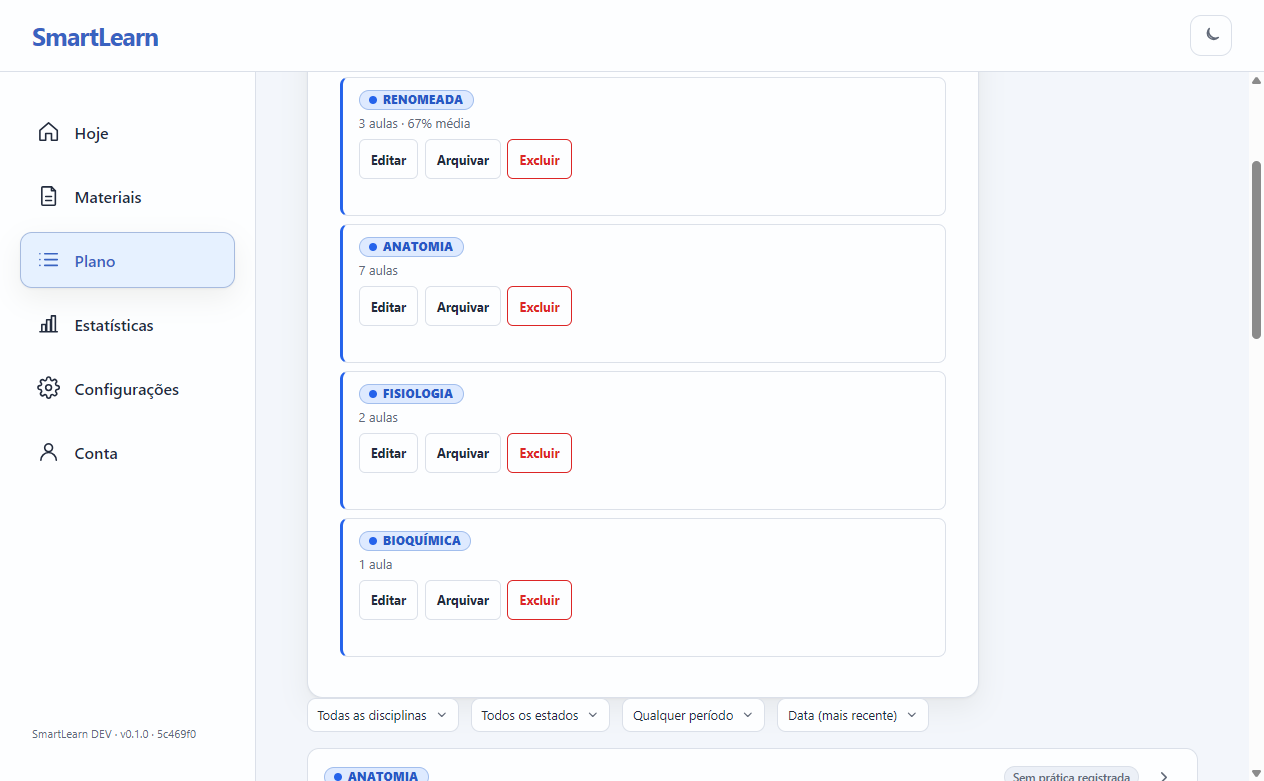
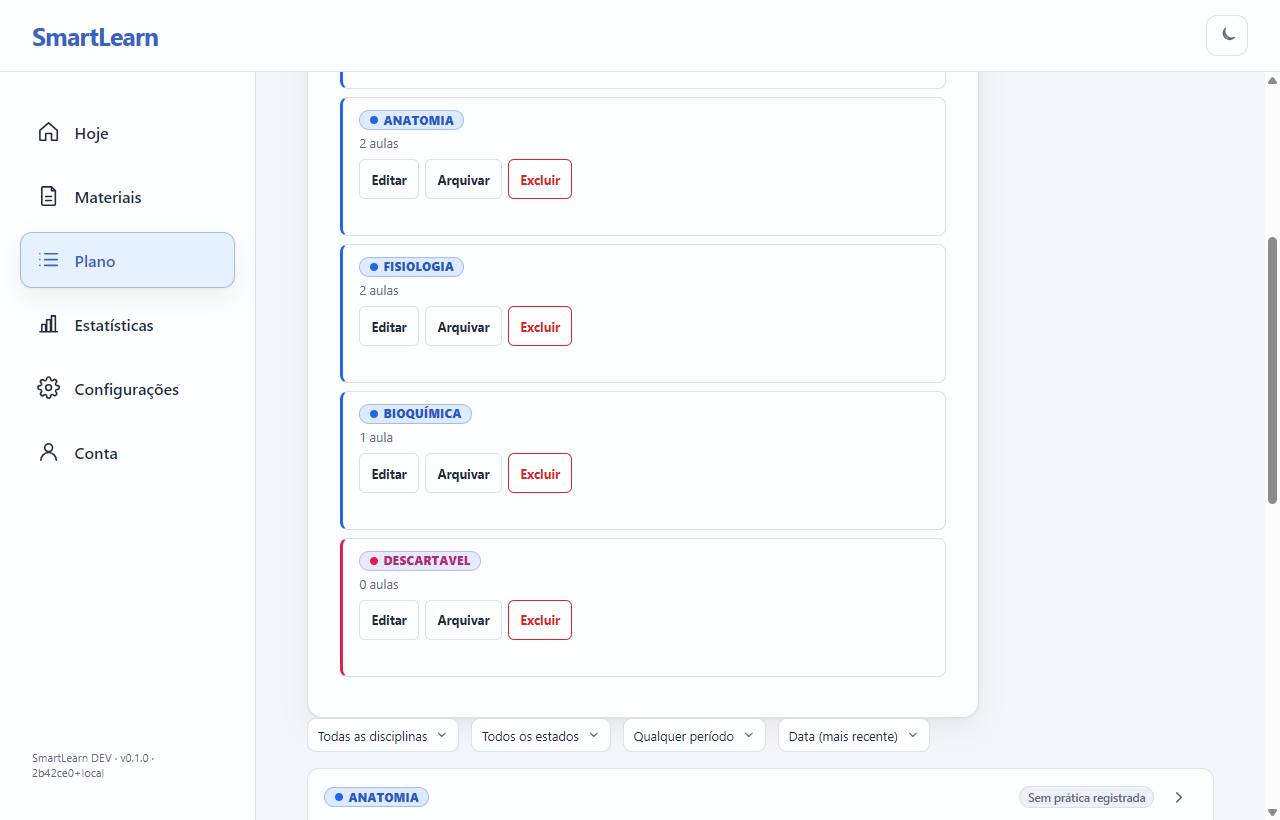
test(native): single-run lock, trap cleanup, instance sweep, password masking (T05)

diff --git a/.specs/campanha-funcional/PLANO-CAMPANHA.md b/.specs/campanha-funcional/PLANO-CAMPANHA.md
@@ -61,11 +61,11 @@ Regra de execução: **uma tarefa por vez; parar ao concluir; um commit local po
 - [x] 4.6 Validar antes/depois (chamadas, volume de saída, duração, evidências; tokens como estimativa se não houver contagem real); commit local. Parar.
 
 ### 05 — Isolamento dos dados
-- [ ] 5.1 Registrar o estado dos dados demonstrativos (contagens e identificadores).
-- [ ] 5.2 Auditar caminhos, bancos, portas, processos, inicialização e limpeza de `zz-ui-full.sh` e `zz-ui-bordas.sh`.
-- [ ] 5.3 Testar resistência a falha, interrupção e execução concorrente.
-- [ ] 5.4 Rodar teste normal + de borda e comparar o estado: nenhuma alteração indevida.
-- [ ] 5.5 Corrigir só falhas efetivamente encontradas; commit local. Parar.
+- [x] 5.1 Registrar o estado dos dados demonstrativos (contagens e identificadores).
+- [x] 5.2 Auditar caminhos, bancos, portas, processos, inicialização e limpeza de `zz-ui-full.sh` e `zz-ui-bordas.sh`.
+- [x] 5.3 Testar resistência a falha, interrupção e execução concorrente.
+- [x] 5.4 Rodar teste normal + de borda e comparar o estado: nenhuma alteração indevida.
+- [x] 5.5 Corrigir só falhas efetivamente encontradas; commit local. Parar.
 
 ### 06 — Inventário e matriz de cobertura
 - [ ] 6.1 Inventariar código, rotas, menus, componentes, estados e fluxos realmente implementados.
@@ -120,7 +120,7 @@ Regra de execução: **uma tarefa por vez; parar ao concluir; um commit local po
 - [ ] 12.6 Fechamento executivo curto; declarar conclusão total ou parcial. Parar.
 
 ## Próxima ação
-Tarefa 05, subtarefa 5.1.
+Tarefa 06, subtarefa 6.1.
 
 ## Resultados da Tarefa 01 (2026-11-01) — medido, sem rodar a suíte completa
 **Métricas de base**
@@ -195,3 +195,13 @@ Unidades medidas: subida do app 5,3 s; reinício deliberado 6,75 s (7,0 s no cic
 | Duração | 52-60 s | 52,6 s e 54,0 s (rodadas limpas); 59,8 s com a falha |
 
 **Prova real:** na 1ª rodada o SEED2c falhou (A-09, intermitente, 1 em 3) e a evidência automática bastou para ver que o botão existia 3 s depois; rodadas 2 e 3: 0 falhas. Causa de A-09 não provada. Limitação: o "antes" é o tamanho do log integral, não uma reexecução do fluxo antigo.
+
+## Resultados da Tarefa 05 (2026-11-01)
+**Lacunas achadas na auditoria (5.2) e correção mínima (5.5):**
+1. Os dois scripts compartilham 1 driver e 1 arquivo de estado: rodar os dois juntos (ou 2x) fazia um `quit` do app do outro, ou mandar lixo de borda para o conjunto realista. Novo `scripts/zz-ui-guard.sh` (lock atômico por `mkdir`, dono morto é substituído, `trap` encerra o app e solta o lock em saída/INT/TERM).
+2. 40 pastas `sl-ui-driver-*` (dados descartáveis das instâncias) acumuladas em `%TEMP%`. Agora `quit` apaga a pasta da própria instância (só prefixo `sl-ui-driver-` direto no temp) e o guarda varre as com mais de 1 dia.
+3. Snapshot imprimia o valor de campos de senha em `tela.txt`/logs; agora `***`.
+4. Retenção: `falhas/` (nome fixo por lote+linha, é sobrescrito) e `logs/` ficam fora do Git.
+
+**Provas:** (a) execução concorrente recusada, sem abrir janela: `full exit=3`, `bordas exit=3` com a mensagem do dono; (b) normal depois borda em sequência: ciclo 17 lotes 0 falhas (46,9 s); (c) impressão digital da pasta de dados humanos (`~/SmartLearn-DevData`, só nomes/tamanhos/datas, sem abrir arquivos) idêntica antes e depois: `72cd1829ec32`; (d) 0 pastas de instância sobraram, lock e estado removidos; (e) interrupção por TERM no dono real no meio da borda: lock removido, estado removido, 0 processos `smartlearn`, 0 pastas. Instâncias de dados distintas por construção (`mkdtemp` aleatório por `start`); minha tentativa de comparar os nomes pelo arquivo de estado deu falso "igual" por leitura de estado velho (erro do meu instrumento, não do isolamento).
+**Riscos remanescentes:** morte forçada (`taskkill /F` do bash) não roda o `trap`: o lock órfão é substituído na próxima execução e o app órfão é fechado pelo `quit` inicial dos scripts, mas a janela fica aberta até lá. A-10 (abaixo) é falha de lote de borda, fora do isolamento.

diff --git a/.specs/evidence/ui-funcional-2026-11-01/ACHADOS-PARCIAIS.md b/.specs/evidence/ui-funcional-2026-11-01/ACHADOS-PARCIAIS.md
@@ -95,3 +95,12 @@ O lote J11 agora confere os valores, não só a presença das telas: depois do J
 - **Causa provada (sincronização do teste, não desempenho do produto):** `expect "propostos"` casava com o texto de progresso `materials.upload.chunking` = "Gerando trechos propostos…" (`src/i18n/locales/pt-BR/materials.js:93`), que aparece ANTES do fim da análise. A espera passava cedo e o `expect` seguinte do botão corria contra a análise do PDF (3 s). Na rodada limpa o botão aparece em ~2,5 s; sob carga passou de 3 s.
 - **Correção mínima:** os 3 lotes que esperavam por "propostos" (SEED2c, SEED2, J10) passam a esperar a mensagem final "trecho proposto." (não aparece no texto de progresso, que está no plural). Nenhum timeout aumentado; nenhum limite de produto tocado.
 - **Prova:** SEED1 + SEED2c em app novo: 0 falhas, SEED2c 2545 ms (baseline 2395 ms), sem DESVIO. Não repeti os 17 lotes. Classe do erro: instrumento (rodada 1 = 1 em 3 era a corrida), regra "espera pelo alvo certo" já existia em "Fail fast, name the cause": eu não conferi se o alvo do `expect` era a condição final (classe 1).
+
+## A-10 Lotes de borda B07 (3 linhas) e B08 (2 linhas) falham na instância descartável — T05, 2026-11-01
+- **Onde:** `bordas/B07-aulas-bordas.txt` L17 e L25 (`select #plan-subject-select Farmacologia`, timeout 1200 ms), L29 (`expect "Farmacodinamica receptores"`); `bordas/B08-resumo-html-emoji.txt` L7 e L11 (`expect "ADME"`).
+- **Observado:** lotes de borda nunca tiveram baseline (sem medição) e não rodam no ciclo oficial; 5 linhas falham. Evidência: `lotes/bordas/falhas/` (local, fora do Git) e `lotes/bordas/logs/`.
+- **Causa:** NÃO PROVADA. SEED1 contém "Farmacologia"; hipótese: B06 ou a ordem dos lotes de borda altera o estado do qual B07/B08 dependem, ou os lotes ficaram defasados em relação à interface. Status: aberto; não afeta o isolamento; resolver na T06/T12 ao gravar baselines das bordas.
+- **Meu erro (classe 1, regra "Every test has a measured runtime"):** lotes de borda sem baseline desde o commit 2b42ce0.
+
+## A-11 Senha no snapshot e instâncias esquecidas — corrigidos na T05
+- Valor de `input:password` aparecia em `tela.txt`/logs (agora `***`); 40 pastas de instância ficavam em `%TEMP%` (agora `quit` apaga e o guarda varre >1 dia).

diff --git a/.specs/evidence/ui-funcional-2026-11-01/lotes/CICLO-RESULTADO.md b/.specs/evidence/ui-funcional-2026-11-01/lotes/CICLO-RESULTADO.md
@@ -1,25 +1,25 @@
 # Resultado do ciclo funcional
 
-Total: 54035 ms, 17 lotes, 0 com falha.
+Total: 46907 ms, 17 lotes, 0 com falha.
 
 | Lote | Linhas | Falhas | ms | Lentas | Desvio de tempo | Sem medição |
 |---|---|---|---|---|---|---|
-| seed/SEED1-conta-disciplinas-aulas.txt | 83 | 0 | 9931 | sim |  |  |
-| seed/SEED2c-pdf-aula-passada.txt | 14 | 0 | 2716 | sim |  |  |
-| J01.txt | 15 | 0 | 1699 | sim |  |  |
-| J04.txt | 14 | 0 | 788 |  |  |  |
-| J02.txt | 9 | 0 | 942 |  |  |  |
-| J05.txt | 9 | 0 | 499 |  |  |  |
-| J11.txt | 10 | 0 | 523 |  |  |  |
-| J09.txt | 19 | 0 | 3438 | sim |  |  |
-| J12.txt | 12 | 0 | 919 |  |  |  |
-| J14.txt | 13 | 0 | 3477 | sim |  |  |
-| J15.txt | 10 | 0 | 222 |  |  |  |
-| J08.txt | 14 | 0 | 5585 | sim |  |  |
-| J13.txt | 10 | 0 | 2272 | sim |  |  |
-| J06c.txt | 15 | 0 | 2622 | sim |  |  |
-| J06d.txt | 19 | 0 | 2718 | sim |  |  |
-| J17.txt | 9 | 0 | 8774 |  |  |  |
-| J16.txt | 21 | 0 | 4605 | sim |  |  |
+| seed/SEED1-conta-disciplinas-aulas.txt | 83 | 0 | 9414 | sim |  |  |
+| seed/SEED2c-pdf-aula-passada.txt | 14 | 0 | 2568 | sim |  |  |
+| J01.txt | 15 | 0 | 1628 | sim |  |  |
+| J04.txt | 14 | 0 | 654 |  |  |  |
+| J02.txt | 9 | 0 | 738 |  |  |  |
+| J05.txt | 9 | 0 | 301 |  |  |  |
+| J11.txt | 10 | 0 | 460 |  |  |  |
+| J09.txt | 19 | 0 | 3017 | sim |  |  |
+| J12.txt | 12 | 0 | 807 |  |  |  |
+| J14.txt | 13 | 0 | 2906 | sim |  |  |
+| J15.txt | 10 | 0 | 215 |  |  |  |
+| J08.txt | 14 | 0 | 4895 | sim |  |  |
+| J13.txt | 10 | 0 | 2088 | sim |  |  |
+| J06c.txt | 15 | 0 | 2124 | sim |  |  |
+| J06d.txt | 19 | 0 | 2463 | sim |  |  |
+| J17.txt | 9 | 0 | 7004 |  |  |  |
+| J16.txt | 21 | 0 | 3707 | sim |  |  |
 
 ## Linhas com falha
